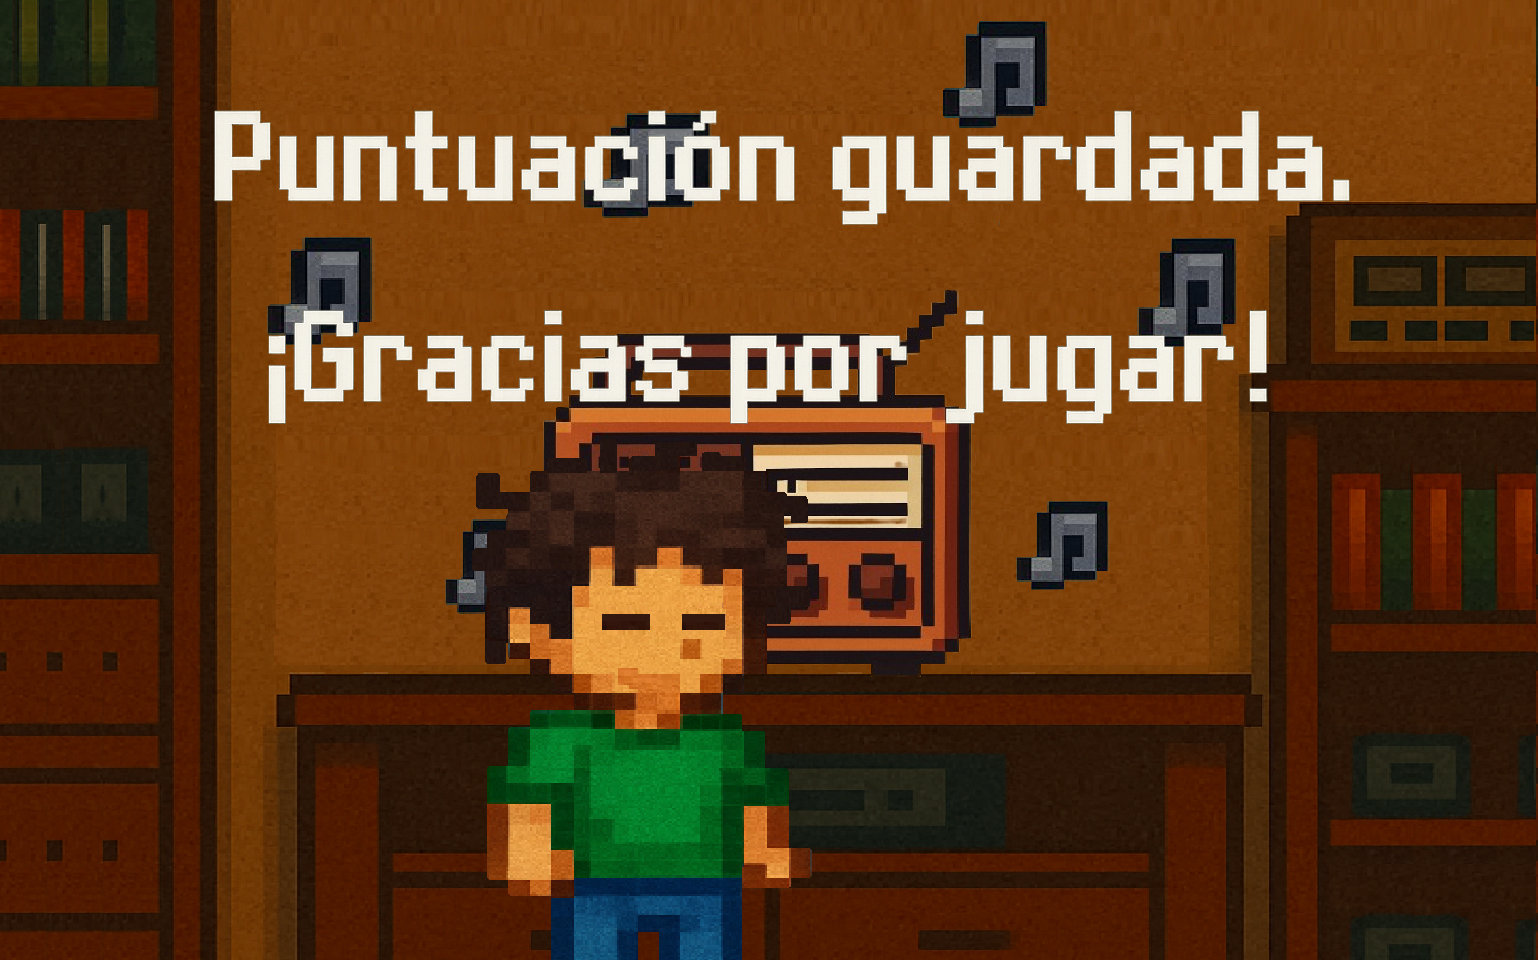
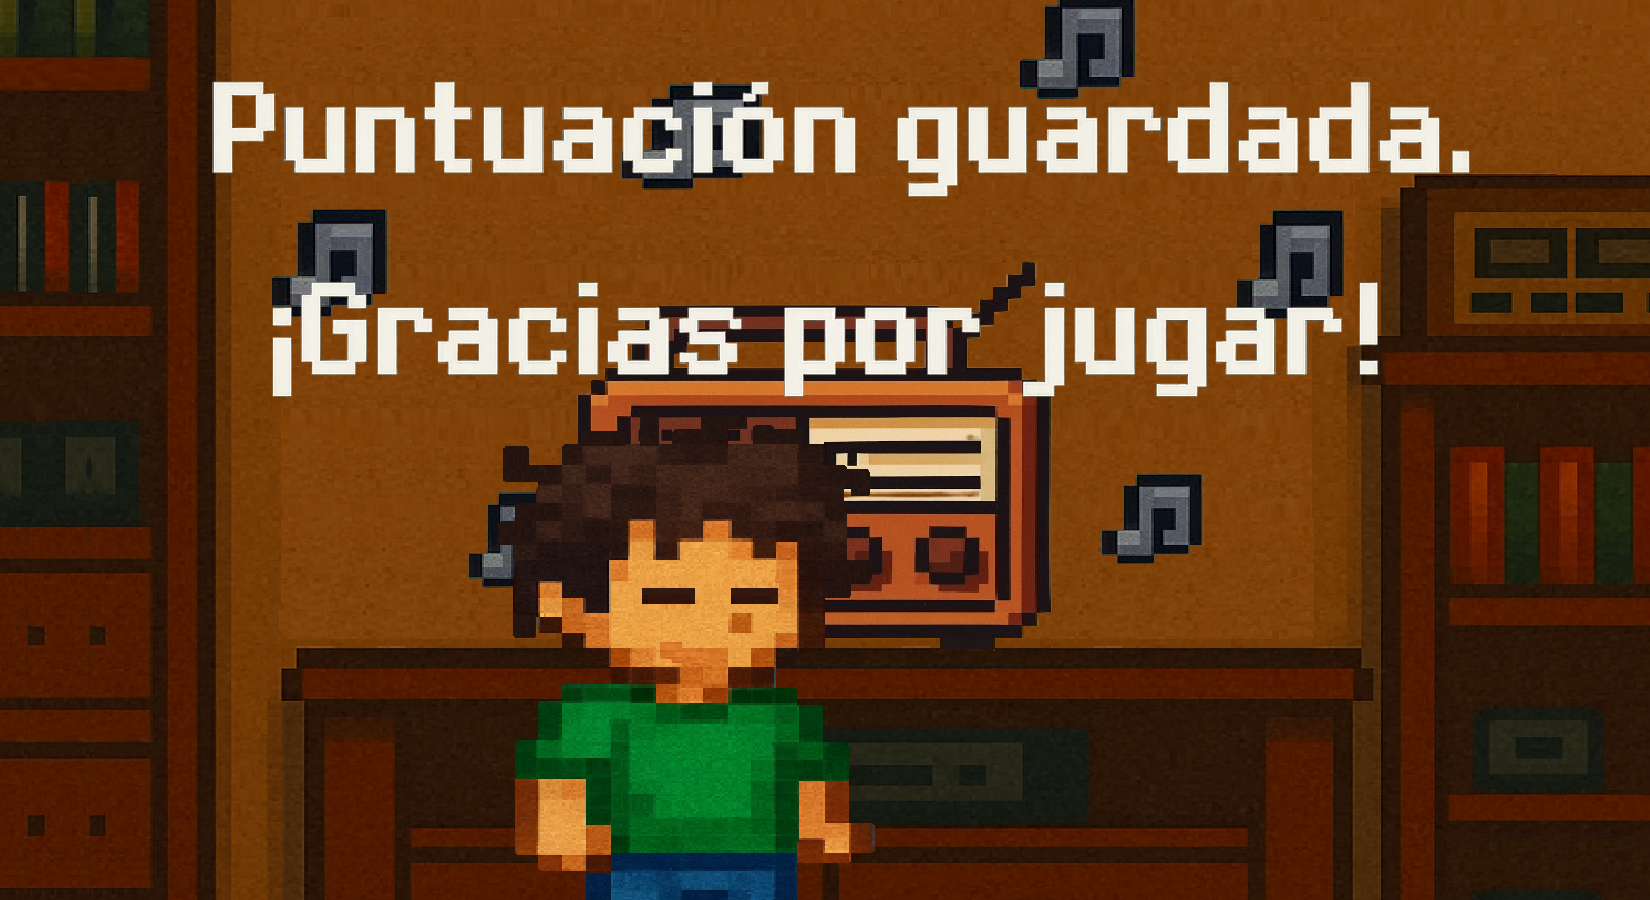
24

diff --git a/js/Scenes/EscenaMenu.js b/js/Scenes/EscenaMenu.js
@@ -1,5 +1,4 @@
-// Solo importamos la función de reescalado visual, ya que esta escena no modifica datos globales.
-import { reescalarGlobalFlexible } from '../uiHelpers.js';
+// La importación de uiHelpers.js ya no es necesaria, la eliminamos.
 
 export class EscenaMenu extends Phaser.Scene {
     constructor() {
@@ -7,59 +6,48 @@ export class EscenaMenu extends Phaser.Scene {
     }
 
     create() {
-        // 1. CREACIÓN DE INTERFAZ (UI)
-        // Las posiciones exactas las manejará aplicarReescalado, pero asignamos el Depth (Z-Index).
-        this.fondo = this.add.image(0, 0, 'FondoMenu').setDepth(1);
-        this.fondoMenuNegro = this.add.image(0, 0, 'fondoMenuNegro').setDepth(2);
+        // ==============================================================
+        // 1. CREACIÓN DE INTERFAZ (UI) Y POSICIONAMIENTO DIRECTO
+        // ==============================================================
         
-        // Botón de regreso
-        this.regreso = this.add.image(0, 0, 'regreso').setDepth(5).setInteractive({ useHandCursor: true });
+        // Fondo base semitransparente o desenfocado (centrado en X: 825, Y: 450)
+        this.fondo = this.add.image(825, 450, 'FondoMenu').setDepth(1).setScale(1); 
+        
+        // Panel negro central del menú
+        this.fondoMenuNegro = this.add.image(825, 450, 'fondoMenuNegro').setDepth(2).setScale(1);
+        
+        // Botón de regreso (Esquina superior izquierda)
+        this.regreso = this.add.image(100, 100, 'regreso').setDepth(5).setInteractive({ useHandCursor: true }).setScale(1.5); // <-- Modifica la escala aquí
         this.regreso.on('pointerdown', () => this.cerrarMenuPorPausa());
         
-        // Textos/Letreros estáticos
-        this.opcionesLetra = this.add.image(0, 0, 'opcionesLetra').setDepth(2);
-        this.MusicaLetra = this.add.image(0, 0, 'MusicaLetra').setDepth(2);
-        this.si = this.add.image(0, 0, 'si').setDepth(4);
-        this.no = this.add.image(0, 0, 'no').setDepth(4);
-
-        // Checkpoints (Botones para Sí/No)
-        this.checkpoint1 = this.add.image(0, 0, 'checkpoint').setDepth(2).setInteractive({ useHandCursor: true });
-        this.checkpoint2 = this.add.image(0, 0, 'checkpoint').setDepth(2).setInteractive({ useHandCursor: true });
+        // Títulos
+        this.opcionesLetra = this.add.image(825, 180, 'opcionesLetra').setDepth(2).setScale(1.75); // <-- Modifica la escala aquí
+        this.MusicaLetra = this.add.image(412, 380, 'MusicaLetra').setDepth(2).setScale(1.1); // <-- Modifica la escala aquí
         
-        // Indicadores de decisión (El "check" visual que marca la opción elegida)
-        this.decision1 = this.add.image(0, 0, 'decision').setDepth(3);
-        this.decision2 = this.add.image(0, 0, 'decision').setDepth(3).setVisible(false);
+        // Etiquetas "Sí" y "No"
+        this.si = this.add.image(775, 300, 'si').setDepth(4).setScale(1.3); // <-- Modifica la escala aquí
+        this.no = this.add.image(990, 300, 'no').setDepth(4).setScale(1.3); // <-- Modifica la escala aquí
 
+        // Checkpoints (Botones para hacer clic, debajo de "Sí" y "No")
+        this.checkpoint1 = this.add.image(775, 380, 'checkpoint').setDepth(2).setInteractive({ useHandCursor: true }).setScale(1); // <-- Modifica la escala aquí
+        this.checkpoint2 = this.add.image(990, 380, 'checkpoint').setDepth(2).setInteractive({ useHandCursor: true }).setScale(1); // <-- Modifica la escala aquí
+        
+        // Indicadores de decisión (La "palomita" o marca dentro del checkpoint)
+        this.decision1 = this.add.image(775, 380, 'decision').setDepth(3).setScale(0.5); // <-- Modifica la escala aquí
+        this.decision2 = this.add.image(990, 380, 'decision').setDepth(3).setVisible(false).setScale(0.5); // <-- Modifica la escala aquí
+
+        // ==============================================================
         // 2. LÓGICA DE EVENTOS (Audio)
+        // ==============================================================
         this.checkpoint1.on('pointerdown', () => this.actualizarEstadoMusica(true));
         this.checkpoint2.on('pointerdown', () => this.actualizarEstadoMusica(false));
 
+        // ==============================================================
         // 3. INICIALIZACIÓN DE ESTADO
-        // Verificamos si la música ya estaba sonando antes de entrar al menú para mantener congruencia visual
+        // ==============================================================
         const musicaExistente = this.sound.get('musicaFondo');
         const estaSonando = musicaExistente ? musicaExistente.isPlaying : false;
         this.actualizarEstadoMusica(estaSonando);
-
-        // 4. RESPONSIVIDAD
-        this.aplicarReescalado();
-        this.scale.on('resize', () => this.aplicarReescalado());
-    }
-
-    aplicarReescalado() {
-        // Aprovechamos el modo FIT: posiciones relativas (0 a 1) limpias y directas.
-        reescalarGlobalFlexible(this, [
-            { obj: this.fondo, posX: 0.5, posY: 0.5, escalaRelativa: 1, autoFill: true },
-            { obj: this.fondoMenuNegro, posX: 0.5, posY: 0.5, escalaRelativa: 1.6 },
-            { obj: this.regreso, posX: 0.05, posY: 0.1, escalaRelativa: 0.16 },
-            { obj: this.opcionesLetra, posX: 0.5, posY: 0.2, escalaRelativa: 0.6 },
-            { obj: this.MusicaLetra, posX: 0.25, posY: 0.4, escalaRelativa: 0.4 },
-            { obj: this.checkpoint1, posX: 0.47, posY: 0.4, escalaRelativa: 0.1 },
-            { obj: this.checkpoint2, posX: 0.6, posY: 0.4, escalaRelativa: 0.1 },
-            { obj: this.decision1, posX: 0.47, posY: 0.4, escalaRelativa: 0.05 },
-            { obj: this.decision2, posX: 0.6, posY: 0.4, escalaRelativa: 0.05 },
-            { obj: this.si, posX: 0.47, posY: 0.32, escalaRelativa: 0.057 },
-            { obj: this.no, posX: 0.6, posY: 0.323, escalaRelativa: 0.064 }
-        ]);
     }
 
     actualizarEstadoMusica(activar) {
@@ -67,23 +55,20 @@ export class EscenaMenu extends Phaser.Scene {
         let musica = this.sound.get('musicaFondo');
 
         if (activar) {
-            // Si no existe, la creamos
             if (!musica) {
                 musica = this.sound.add('musicaFondo', { loop: true, volume: 0.5 });
             }
-            // Si existe pero no suena, le damos play
             if (!musica.isPlaying) {
                 musica.play();
             }
-            // Actualización visual
+            // Actualización visual: "Sí" marcado, "No" desmarcado
             this.decision1.setVisible(true);
             this.decision2.setVisible(false);
         } else {
-            // Si apagamos y la música existe y suena, la detenemos
             if (musica && musica.isPlaying) {
                 musica.stop(); 
             }
-            // Actualización visual
+            // Actualización visual: "Sí" desmarcado, "No" marcado
             this.decision1.setVisible(false);
             this.decision2.setVisible(true);
         }

diff --git a/js/Scenes/EscenaInstrucciones.js b/js/Scenes/EscenaInstrucciones.js
@@ -1,5 +1,4 @@
-// Solo importamos la función de reescalado visual. No necesitamos globals aquí.
-import { reescalarGlobalFlexible } from '../uiHelpers.js';
+// La importación de uiHelpers.js ya no es necesaria, la eliminamos.
 
 export class EscenaInstrucciones extends Phaser.Scene {
     constructor() {
@@ -7,7 +6,9 @@ export class EscenaInstrucciones extends Phaser.Scene {
     }
 
     create() {
+        // ==============================================================
         // 1. GESTIÓN DE AUDIO
+        // ==============================================================
         if (!this.sound.get('musicaFondo')) {
             this.musica = this.sound.add('musicaFondo', { loop: true, volume: 0.5 });
             this.musica.play();
@@ -18,21 +19,28 @@ export class EscenaInstrucciones extends Phaser.Scene {
             }
         }
 
-        // 2. CREACIÓN DE INTERFAZ (UI)
-        this.fondo = this.add.image(0, 0, 'instrucciones');
+        // ==============================================================
+        // 2. CREACIÓN DE INTERFAZ (UI) Y POSICIONAMIENTO DIRECTO
+        // ==============================================================
+        
+        // Fondo centrado
+        this.fondo = this.add.image(825, 450, 'instrucciones').setScale(1); // <-- Modifica la escala aquí
 
         // Panel semitransparente con borde neón
-        this.panel = this.add.rectangle(0, 0, 900, 600, 0x0c1022, 0.8)
-            .setStrokeStyle(3, 0x00ffc3);
+        // Nota: Un rectángulo no necesita setScale usualmente, puedes cambiar su tamaño (900, 600) directamente aquí si lo necesitas.
+        this.panel = this.add.rectangle(825, 450, 900, 600, 0x0c1022, 0.8)
+            .setStrokeStyle(3, 0x00ffc3)
+            .setScale(1); // <-- Modifica la escala aquí
 
-        this.titulo = this.add.text(0, 0, 'INSTRUCCIONES', {
+        // Título principal centrado en la parte superior
+        this.titulo = this.add.text(825, 200, 'INSTRUCCIONES', {
             fontSize: '40px',
             color: '#00ffc3',
             fontStyle: 'bold',
-            fontFamily: 'Silkscreen' // Aseguramos que use tu fuente pixel-art
-        }).setOrigin(0.5);
+            fontFamily: 'Silkscreen'
+        }).setOrigin(0.5).setScale(1); // <-- Modifica la escala aquí
 
-        // Contenido
+        // Contenido de las instrucciones
         const textoInstrucciones = [
             'MOVIMIENTO',
             'Usa W A S D  para moverte',
@@ -57,17 +65,22 @@ export class EscenaInstrucciones extends Phaser.Scene {
             'cambiar de personaje'
         ];
 
-        this.texto = this.add.text(0, 0, textoInstrucciones, {
+        // Texto centrado horizontalmente, alineado hacia abajo desde la posición Y: 250
+        this.texto = this.add.text(825, 250, textoInstrucciones, {
             fontSize: '32px',
             color: '#ffffff',
             align: 'left',
             fontFamily: 'Silkscreen',
             lineSpacing: 6,
-            wordWrap: { width: 1000 }
-        }).setOrigin(0.5, 0);
+            wordWrap: { width: 800 } // Ajustado un poco para que quepa bien dentro del panel de 900
+        }).setOrigin(0.5, 0).setScale(1); // <-- Modifica la escala aquí
 
+        // ==============================================================
         // 3. BOTÓN Y EVENTOS
-        this.regreso = this.add.image(0, 0, 'regreso').setInteractive({ useHandCursor: true });
+        // ==============================================================
+        
+        // Botón de regreso (Esquina superior izquierda)
+        this.regreso = this.add.image(115, 135, 'regreso').setInteractive({ useHandCursor: true }).setScale(1); // <-- Modifica la escala aquí
 
         this.regreso.on('pointerdown', () => {
             if (window.ultimaEscenaActiva) {
@@ -75,6 +88,9 @@ export class EscenaInstrucciones extends Phaser.Scene {
             }
             this.scene.stop();
         });
+
+        // Guardamos dinámicamente la escala que le hayas puesto arriba para usarla en el Hover
+        this.escalaBaseBoton = this.regreso.scaleX;
 
         // Feedback visual al pasar el mouse (Hover effect)
         this.regreso.on('pointerover', () => {
@@ -85,22 +101,6 @@ export class EscenaInstrucciones extends Phaser.Scene {
             this.regreso.setScale(this.escalaBaseBoton); // Vuelve a su tamaño base
         });
 
-        // 4. RESPONSIVIDAD
-        this.aplicarReescalado();
-        this.scale.on('resize', () => this.aplicarReescalado());
-    }
-
-    aplicarReescalado() {
-        reescalarGlobalFlexible(this, [
-            { obj: this.fondo, posX: 0.5, posY: 0.5, escalaRelativa: 1, autoFill: true },
-            { obj: this.panel, posX: 0.5, posY: 0.45, escalaRelativa: 1.2 },
-            { obj: this.titulo, posX: 0.5, posY: 0.13, escalaRelativa: 0.8 },
-            { obj: this.texto, posX: 0.5, posY: 0.18, escalaRelativa: 0.77 },
-            { obj: this.regreso, posX: 0.07, posY: 0.15, escalaRelativa: 0.2 }
-        ]);
-
-        // Guardamos la escala real que 'reescalarGlobalFlexible' le asignó al botón
-        // para usarla en nuestro efecto de 'pointerover'/'pointerout'.
-        this.escalaBaseBoton = this.regreso.scale;
+        // ¡Adiós aplicarReescalado!
     }
 }

diff --git a/js/main.js b/js/main.js
@@ -78,7 +78,7 @@ class PreloadScene extends Phaser.Scene {
         });
 
         this.load.on('complete', () => {
-            this.scene.start('EscenaInicio');
+            this.scene.start('EscenaInstrucciones'); //aqui EscenaInicio
         });
 
         // --- CARGA MASIVA DE ASSETS ESTATICOS ---
@@ -163,10 +163,14 @@ class PreloadScene extends Phaser.Scene {
             { key: 'IconoCalaca', path: 'Botones/Cuadrados/IconoCalaca.png' },
             { key: 'IconoDuende', path: 'Botones/Cuadrados/IconoDuende.png' },
             { key: 'IconoSlime', path: 'Botones/Cuadrados/IconoSlime.png' },
+            { key: 'checkpoint', path: 'Botones/Cuadrados/checkpoint.png' },
+            { key: 'decision', path: 'Botones/Cuadrados/decision.png' },
+
             // Textos
             { key: 'MusicaLetra', path: 'Textos/MusicaLetra.png' },
             { key: 'opcionesLetra', path: 'Textos/opcionesLetra.png' },
-
+            { key: 'si', path: 'Textos/si.png' },
+            { key: 'no', path: 'Textos/no.png' },
 
 
 
@@ -174,16 +178,14 @@ class PreloadScene extends Phaser.Scene {
 
             { key: 'botonDescripcion', path: 'botonDescripcion.png' },
             { key: 'fondoPersonajes', path: 'fondoPersonajes2.png' },
-            { key: 'si', path: 'si.png' },
-            { key: 'no', path: 'no.png' },
+
             { key: 'tituloLogros', path: 'tituloLogros.png' },
             { key: 'recuadroM', path: 'recuadroMago.png' },
             { key: 'recuadroP', path: 'recuadroPersona.png' },
             { key: 'recuadro', path: 'recuadro2.png' },
             { key: 'barraobjetos', path: 'barraobjetos.png' },
             { key: 'inventariopanel', path: 'inventariopanel.png' },
-            { key: 'checkpoint', path: 'checkpoint.png' },
-            { key: 'decision', path: 'decision.png' },
+
             { key: 'recuadroLogroMaestro', path: 'recuadroLogroMaestro.png' },
             { key: 'recuadroLogroNovato', path: 'recuadroLogroNovato.png' },
             { key: 'recuadroLogroMitico', path: 'recuadroLogroMitico.png' },
@@ -262,9 +264,10 @@ const config = {
     scene: [
         PreloadScene,
         EscenaInicio, 
-
         EscenaMenu,
         EscenaInstrucciones,
+
+        
         EscenaLogros,
         EscenaElegir,
         EscenaEleccion,
@@ -306,7 +309,7 @@ async function fetchSeguro(url, nombreEtiqueta) {
 }
 
 async function inicializarJuego() {
-    console.log('🚀 Sincronizando datos con el servidor...');
+    console.log(' Sincronizando datos con el servidor...');
 
     try {
         const [dialogosRes, objetosRes, logrosRes, objetosJRes, usuarioRes] = await Promise.all([
@@ -325,17 +328,17 @@ async function inicializarJuego() {
 
         if (usuarioRes.success) {
             setUser(usuarioRes); 
-            console.log(`👤 Identidad confirmada: ${usuarioRes.guest ? 'INVITADO (Progreso Local)' : 'JUGADOR REGISTRADO'}`);
+            console.log(` Identidad confirmada: ${usuarioRes.guest ? 'INVITADO (Progreso Local)' : 'JUGADOR REGISTRADO'}`);
         }
 
-        console.log('✅ Datos listos. Arrancando motor gráfico de Phaser...');
+        console.log(' Datos listos. Arrancando motor gráfico de Phaser...');
         
-        // 🔥 ARQUITECTURA CLAVE: Arrancamos el juego HASTA QUE la memoria (Store) tiene los datos.
+        //  ARQUITECTURA CLAVE: Arrancamos el juego HASTA QUE la memoria (Store) tiene los datos.
         // Esto evita que PreloadScene intente cargar imágenes de logros que aún no existen en el estado.
         window.game = new Phaser.Game(config);
 
     } catch (error) {
-        console.error('❌ Error crítico al arrancar el juego:', error);
+        console.error(' Error crítico al arrancar el juego:', error);
         alert('Hubo un error de conexión con el servidor. El juego podría no funcionar correctamente.');
     }
 }

diff --git a/js/Scenes/EscenaInicio.js b/js/Scenes/EscenaInicio.js
@@ -52,7 +52,7 @@ export class EscenaInicio extends Phaser.Scene {
         // 4. INTERFAZ Y BOTONES
         this.botonInicio = this.add.image(850, 500, 'botonInicio').setInteractive().setScale(1.5); // <-- Modifica la escala aquí
         this.botonInicio.on('pointerdown', () => {
-            this.scene.start('EscenaEleccion'); // CAMBIAR LUEGO A EscenaIntroduccionUno
+            this.scene.start('EscenaEleccion'); 
         });
 
         this.botonPersonaje = this.add.image(300, 500, 'botonPersonaje').setInteractive().setScale(1.2); // <-- Modifica la escala aquí

diff --git a/js/juego.js b/js/juego.js
@@ -121,7 +121,7 @@ function renderAchievements(logros, contenedor) {
         const tipoClase = logro.tipo ? logro.tipo.toLowerCase() : 'default';
         card.classList.add("logro-card", tipoClase);
 
-        // 🔥 NUEVA LÓGICA ESTANDARIZADA: 
+        //  NUEVA LÓGICA ESTANDARIZADA: 
         // Agregamos la extensión .png dinámicamente desde el frontend
         const imgSrc = logro.imagen.startsWith("http") 
             ? logro.imagen 
